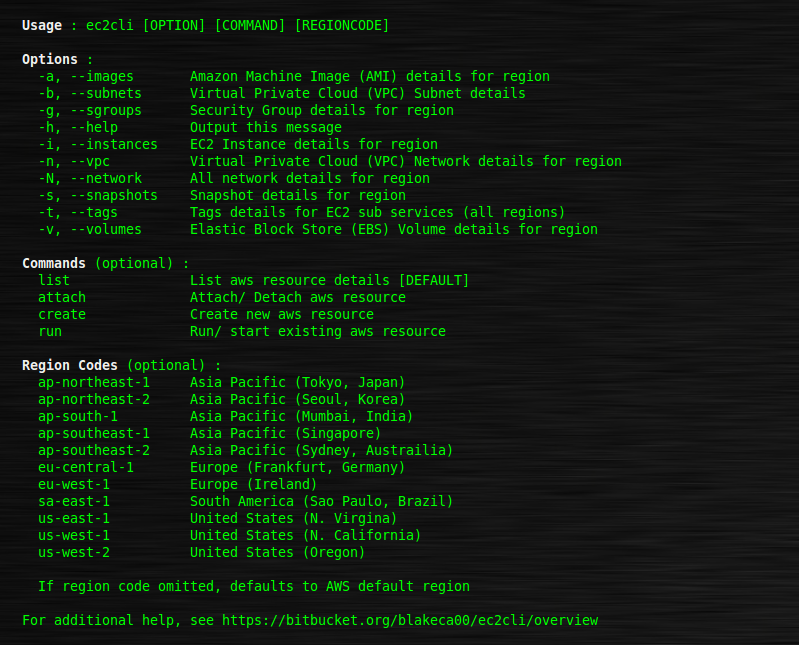
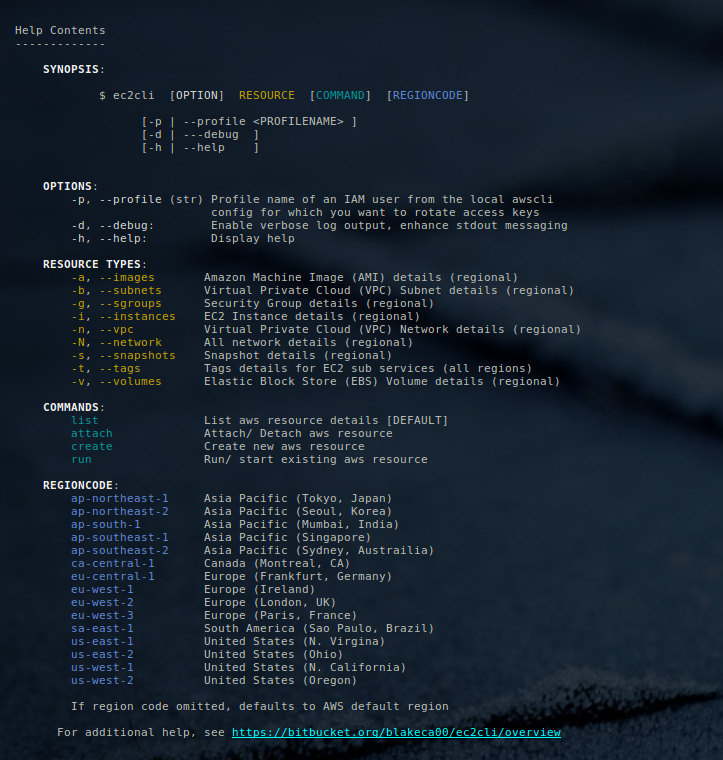
v2.0 updates -- README, ancillary libs

diff --git a/README.md b/README.md
@@ -1,12 +1,10 @@
-# EC2cli - Utilities for working with Amazon EC2 
+# EC2cli - Utilities for working with Amazon EC2
 
 * [About](#about-this-repository)
 * [License](#license)
 * [Introduction](#introduction)
-* [Contents](#contents)
 * [Installation](#installation)
 * [Configuration](#configuration)
-* [Aliases](#aliases)
 * [Permissions](#iam-permissions)
 * [Usage](#usage)
 * [Screenshots](#screenshots)
@@ -15,92 +13,122 @@
 
 * * *
 
-## About this repository 
+## About this repository
 
 * Purpose:       CLI utilities for use with Amazon Web Services (AWS)
-* Version:       0.74 
+* Version:       2.0
 * Repo:          [ec2cli] https://blakeca00@bitbucket.org/blakeca00/ec2cli.git
-* Mirror repo:   https://github.com/t-stark/ec2cli 
+* Mirror repo:   https://github.com/fstab50/ec2cli
 
 * * *
 
-## License 
+## License
 
 * All utilities contained herein are copyrighted and made available under GPLv2
 * See [LICENSE](./LICENSE)
 
 * * *
 
-## Introduction 
+## Introduction
 
-EC2cli was developed to make life easier when working with AWS services in a
-cli environment.  EC2cli utilizes AWS' cli tools to enable you to send signed 
-requests to Amazon's API to perform uses cases typically accomplished using the 
-console interface.  EC2cli will save time and effort to perform operations
-such as taking a snapshot or listing which EC2 instances are running.
+EC2cli was developed to make life easier when working with AWS services in a cli environment.  EC2cli  
+utilizes AWS' cli tools to enable you to send signed requests to Amazon's API to perform uses cases typically  
+accomplished using the console interface.  EC2cli will save time and effort to perform operations such as  
+taking a snapshot or listing which EC2 instances are running.
 
-That being said, ec2cli was designed for use with relatively low AWS resource counts.  If you are operating at scale, these will prove cumbersome since are no embedded filtering capabilities (if you would like to contribute, please see "Contributing" below).  The assumption is that if you are operating at scale, you have already developed your own tools for managing and operating AWS resources in a commercial environment.
+That being said, ec2cli was designed for use with relatively low AWS resource counts.  If you are operating  
+at scale, these will prove cumbersome since are no embedded filtering capabilities (if you would like to  
+contribute, please see "Contributing" below).  The assumption is that if you are operating at scale, you  
+have already developed your own tools for managing and operating AWS resources in a commercial environment.
 
-While I realize that accomplishing the same functionality is easier with the AWS ruby or python SDK's, I developed these in bash to make them easy for system administrators and solution architects to modify for their particular use cases.
+While I realize that accomplishing the same functionality is easier with the AWS ruby or python SDK's, I  
+developed these in bash to make them easy for system administrators and solution architects to modify for  
+their particular use cases.
 
-_Dependency Note_:  ec2cli was developed and tested under bash. Some functionality may work with other shells; however, your mileage may vary.
+_Dependency Note_:  ec2cli was developed and tested under bash. Some functionality may work with other  
+shells; however, your mileage may vary.
 
-![](./images/ec2i_running-instances.png)
+![](./images/running-instances.png)
 
 (See [Screenshots](#screenshots) section below)
 
 * * *
 
-## Contents ##
+## Usage ##
+
 ```bash
-* ec2cli                    # Main executable for working with EC2 resources from cli environment
-* ec2-qv-spot-prices.sh     # Quick view of spot prices in region specified
 
-# init/                     # EC2 host-based scripts
+	$ ec2cli --help     
 
-* motd-ec2.sh               # dynamic message of the day for EC2 instances. Dep on ec2-az-location.sh
-* ec2-hostname.sh           # resets EC2 hostname upon (re)start, part of init process
-* ec2-az-location.sh        # grabs region from metadata service. Called by motd-ec2.sh
-* ec2.bash_profile          # sample bash_profile (Amazon Linux)
 ```
+
+![help-menu](./images/ec2cli-help.png)
+
+### Notes: ###
+
+* **OPTION** is required. Since an option represents a disparate AWS resource, only 1 option (resource) at a time is supported.
+
+* **COMMAND** is optional. If omitted, ec2cli defaults to the `list` command and lists details of the EC2 resource specified  
+by the OPTION parameter.
+
+* **REGIONCODE** is optional. If omitted, ec2cli defaults to the AWS default region defined in the `AWS_DEFAULT_REGION` environment  
+variable (if present); or alternately, the awscli config file.
+
+* `create` and `run` commands currently have support for limited resource types. Update your local repo frequently to enable  
+additional resource types as additional types are added.
 
 * * *
 
 ## Installation ##
 
-* General Dependencies
+* **General Dependencies**
+
 	- Writable directory where utilities are located
 	- One of the following python versions: 2.6.5, 2.7.X+, 3.3.X+, 3.4.X+
 	- Installation Amazon CLI tools (awscli, see below this section)
 	- awk, see your dist repo
-	- sed, see your dist repo
+	- sed, see your dist repo  
 
-* Install jq, a JSON parser from your local distribution repository.
+* **jq, JSON Parser**.  Install `jq` from your local distribution repository.  
+
 ```bash
 	$ sudo apt-get install jq    # Ubuntu, most Debian-based distributions
 ```
+
 ```bash
-	$ sudo yum install jq        # RedHat, Fedora, CentOS 
+	$ sudo yum install jq        # RedHat, Fedora, CentOS
 ```
 
-* Environment variables: 
-	Setup the following global environment variables by adding each to your	.bashrc or .bash_profile (substitute your respective values)
+* **Environment variables**:
+
+	- Setup the following global environment variables by adding each to your	.bashrc or .bash_profile (substitute your respective values)
+
 ```bash                              
-	# .bashrc / .bash_profile 
+	# .bashrc / .bash_profile
 
 	export EC2_REPO=~/git/ec2cli           # location of this README and utilities (writable)
 	export SSH_KEYS=~/AWS                  # location of ssh access keys (.pem files)
-	export AWS_ACCESS_KEY=XXXXXXXXXXXXX    # Your IAM Access Key
-	export AWS_SECRET_KEY=XXXXXXXXXXXXX    # Your Secret Key
 	export AWS_DEFAULT_REGION=us-west-2    # your Primary AWS Region  
+
 ```
 
-* Install [awscli](https://github.com/aws/aws-cli/)
-	
-	Detailed instructions can be found in the README located at:
-	https://github.com/aws/aws-cli/
+* **Python Package Manager**. If you do not currently have it, install [pip](http://www.pip-installer.org/en/latest).  
 
-	The easiest method, provided your platform supports it, is via [pip](http://www.pip-installer.org/en/latest).
+    You can install pip from your distribution's package repo:
+
+```bash
+	$ sudo apt install python-pip    # ubuntu
+
+    $ sudo yum install python-pip   # redhat-based distros
+
+    $ sudo dnf install python-pip   # Fedora-based distros
+
+```
+
+* **Install the [awscli](https://github.com/aws/aws-cli/)**
+
+    Detailed instructions can be found in the README located at:
+    https://github.com/aws/aws-cli/
 
 ```bash
 	$ sudo pip install awscli
@@ -118,6 +146,13 @@ _Dependency Note_:  ec2cli was developed and tested under bash. Some functionali
 	$ git clone https://blakeca00@bitbucket.org/blakeca00/ec2cli.git
 ```
 
+* **Add `ec2cli` to your path**. Add the following to your .bashrc, .bash_profile, or .profile:  
+
+```bash
+    export PATH=$PATH:$EC2_REPO
+```
+
+
 * * *
 
 ## Configuration ##
@@ -126,7 +161,7 @@ _Dependency Note_:  ec2cli was developed and tested under bash. Some functionali
 
 ```bash
    $ aws configure
-	
+
 	AWS Access Key ID: foo
 	AWS Secret Access Key: bar
 	Default region name [us-west-2]: us-west-2
@@ -137,15 +172,15 @@ _Dependency Note_:  ec2cli was developed and tested under bash. Some functionali
 
 ```bash
    $ aws configure --profile testuser
-    
+
     AWS Access Key ID: footestuser
     AWS Secret Access Key: bartestuser
     Default region name [us-west-2]: us-west-2
     Default output format [None]: json
 ```
 
-* Command Completion 
-   	
+* Command Completion
+
 	You'll want to enable command completion to make awscli
 	commands easy to type and recall.  After installing awscli,
 	add the following to your .bashrc or .bash_profile:
@@ -155,32 +190,8 @@ _Dependency Note_:  ec2cli was developed and tested under bash. Some functionali
 	complete -C aws_completer aws
 ```
 
-* Update your path by adding the following to your .bashrc, .bash_profile, or .profile:
-```bash
-    export PATH=$PATH:$EC2_REPO
-```
-
-* Setup shortcut aliases (optional, see [Aliases](#aliases) below)
-
 * * *
 
-## Aliases ##
-
-This section is optional. Add the following to your .bash_profile or .bashrc as convenient cli shortcuts:
-```bash
-# Shortcut Aliases - AWS
-alias ec2a="$EC2_REPO/ec2cli -a list"      # list of Amazon Machine Images, default region
-alias ec2i="$EC2_REPO/ec2cli -i list"      # list of EC2 instances, default region
-alias ec2s="$EC2_REPO/ec2cli -s list"      # list of snapshots, default region
-alias ec2g="$EC2_REPO/ec2cli -g list"      # list of security groups, default region
-alias ec2b="$EC2_REPO/ec2cli -b list"      # list of subnets, default region
-alias ec2v="$EC2_REPO/ec2cli -v list"      # list of Elastic Block Store Volumes, default region
-alias ec2n="$EC2_REPO/ec2cli -n list"      # list of VPCs, default region
-alias awsnet="$EC2_REPO/ec2cli -N list"    # complete networking configuration, default region
-```
-
-* * *
- 
 ## IAM Permissions ##
 
 #### ec2cli Required Permissions ####
@@ -240,59 +251,10 @@ You can grab a read-only version of the policy [here](./policies/iampolicy-EC2-q
 
 * * *
 
-## Usage ##
-```bash
-$ ec2cli --help     
-
- Help Contents
-
-   Usage : ec2cli [OPTION] [COMMAND] [REGIONCODE] 
-
-   Options :
-     -a, --images       Amazon Machine Image (AMI) details for region
-     -b, --subnets      Virtual Private Cloud (VPC) Subnet details
-     -g, --sgroups      Security Group details for region
-     -h, --help         Output this message
-     -i, --instances    EC2 Instance details for region
-     -n, --vpc          Virtual Private Cloud (VPC) Network details for region
-     -N, --network      All network details for region
-     -s, --snapshots    Snapshot details for region    
-     -t, --tags         Tags details for EC2 sub services (all regions)
-     -v, --volumes      Elastic Block Store (EBS) Volume details for region
-  
-   Commands (optional) : 
-     list               List aws resource details [DEFAULT]
-     attach             Attach/ Detach aws resource 
-     create             Create new aws resource
-     run                Run/ start existing aws resource
-
-   Region Codes (optional) : 
-     ap-northeast-1     Asia Pacific (Tokyo, Japan)       
-     ap-northeast-2     Asia Pacific (Seoul, Korea)      
-     ap-south-1         Asia Pacific (Mumbai, India)
-     ap-southeast-1     Asia Pacific (Singapore)       
-     ap-southeast-2     Asia Pacific (Sydney, Austrailia) 
-     eu-central-1       Europe (Frankfurt, Germany)       
-     eu-west-1          Europe (Ireland)          
-     sa-east-1          South America (Sao Paulo, Brazil)
-     us-east-1          United States (N. Virgina)   
-     us-west-1          United States (N. California)    
-     us-west-2          United States (Oregon)  
-
-     If region code omitted, defaults to AWS default region 
-    
-   For additional help, see https://bitbucket.org/blakeca00/ec2cli/overview
-```
-#### Notes: ####
-* OPTION is required. Since an option represents a disparate AWS resource, only 1 option (resource) at a time is supported.
-* COMMAND is optional. If omitted, ec2cli defaults to the 'list' command and lists details of the EC2 resource specified by the OPTION parameter.
-* REGIONCODE is optional. If omitted, ec2cli defaults to the AWS default region defined in the $AWS_DEFAULT_REGION environment variable (if present); or alternately, the awscli config file.
-* `create` and `run` commands currently have support for limited resource types. Update your local repo frequently to enable additional resource types as additional types are added.
-
-* * *
-
 ## Screenshots ##
-#### ec2cli `list` command #####
+
+### ec2cli `list` command ####
+
 List command displays AWS resource details for your AWS default region if no region specified. If an alternate region given as a parameter, displays resource details for the specified region.
 
 ```bash
@@ -346,12 +308,14 @@ $ ec2cli -g us-east-1    # list security group details, alt region (us-east-1)
 ```
 ![](./images/ec2sg_altregion.png)
 
-* * * 
+* * *
+
 ## Screenshots ##
-#### ec2cli `run` command ####
+
+### ec2cli `run` command ###
 
 *Note: this utility may also be used to automate login to a running EC2 instance*
-*as well as starting a stopped instance. See step 2. (below)* 
+*as well as starting a stopped instance. See step 2. (below)*
 
 ```bash
 $ ec2cli -i run    # run/ log on to EC2 instances in default region
@@ -362,7 +326,7 @@ $ ec2cli -i run    # run/ log on to EC2 instances in default region
 
 2.After instance is chosen, ec2cli performs a network access check:
 
-  * Access check sources the security group and validates IPs listed in the group against your local IP. 
+  * Access check sources the security group and validates IPs listed in the group against your local IP.
   * _Note_: if the instance you chose is already running, the ec2cli moves immediately to authentication (Step 4).
 
 ![](./images/start-instance_02.png)
@@ -374,7 +338,7 @@ $ ec2cli -i run    # run/ log on to EC2 instances in default region
 4.Authentication start:
 
   * Public IP and ssh key name are sourced from instance json data via api call.
-  * The ssh key is then located on your local machine in the dir specified by the ``$SSH_KEYS`` env variable. 
+  * The ssh key is then located on your local machine in the dir specified by the ``$SSH_KEYS`` env variable.
 
 ![](./images/start-instance_04.png)
 
@@ -383,8 +347,10 @@ $ ec2cli -i run    # run/ log on to EC2 instances in default region
 ![](./images/start-instance_05.png)
 
 * * *
+
 ## Screenshots ##
-#### Spot Price Utility ####
+
+### Spot Price Utility ###
 
 [Screenshots (continued)](./README_spot.md)
 
@@ -396,7 +362,7 @@ $ ec2cli -i run    # run/ log on to EC2 instances in default region
    containing feature enhancements so these utilities can stand
    alone.
 
-   If you'd like to contribute, please fork and then send me 
+   If you'd like to contribute, please fork and then send me
    a pull request.
 
 * * *
